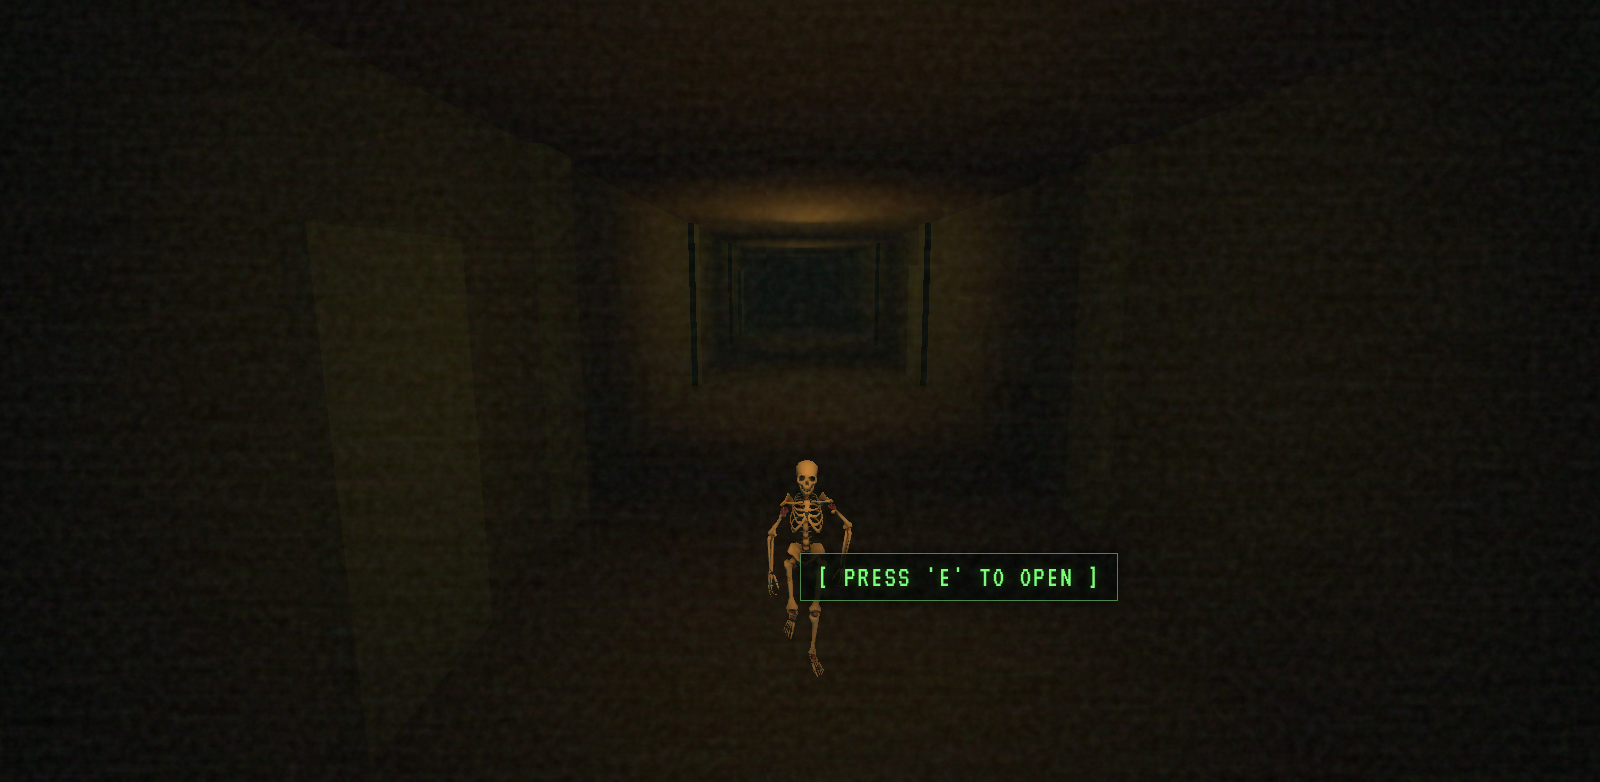
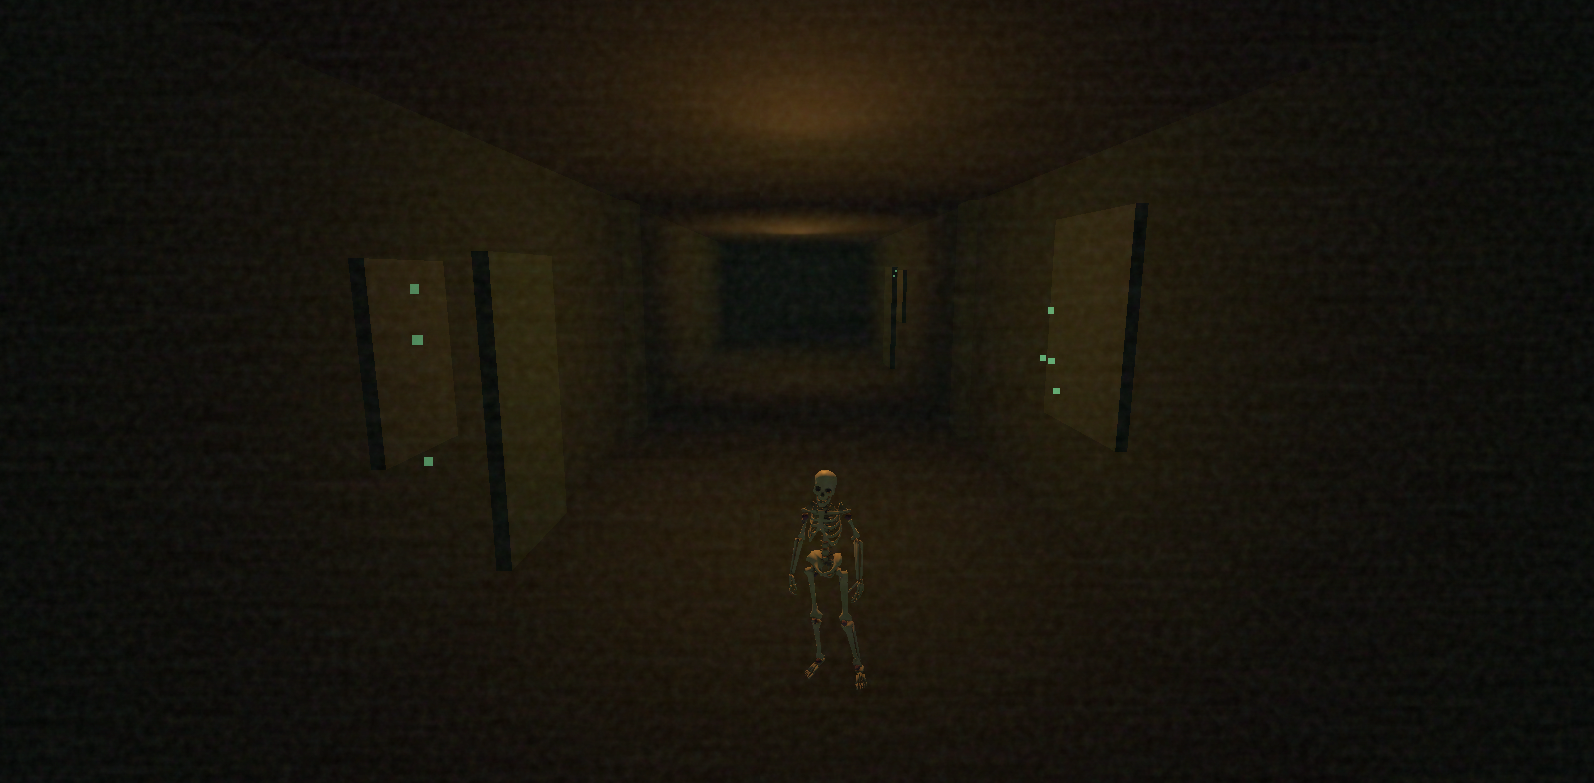
feature: added pictures to the paintings

diff --git a/script.js b/script.js
@@ -88,6 +88,9 @@ let isPaintingHovered = false;
 let currentPaintingRotationY = 0;
 let paintingSparkles = [];
 
+// Textures for Corridor Paintings
+let texSkeletonBase, texSkeletonDiff, texBlueTank;
+
 // Cell 2 Jumpscare State
 let cell2InspectedOnce = false;
 let cell2JumpscareTriggered = false;
@@ -564,28 +567,44 @@ function initArcade3D() {
         corridorDoors.push(door);
     }
 
-    // CREATE CORRIDOR PAINTINGS & SPARKLES
+    // CREATE TEXTURES FOR CORRIDOR PAINTINGS
+    const textureLoader = new THREE.TextureLoader();
+    texSkeletonBase = textureLoader.load('assets/images/wtf_bright_skeleton.png');
+    texSkeletonDiff = textureLoader.load('assets/images/skeleton_headphone.png');
+    texBlueTank = textureLoader.load('assets/images/blueTank.png');
+
+    [texSkeletonBase, texSkeletonDiff, texBlueTank].forEach(tex => {
+        tex.minFilter = THREE.NearestFilter;
+        tex.magFilter = THREE.NearestFilter;
+    });
+
     corridorPaintings = [];
     paintingSparkleParticles = [];
-    const paintingMat = new THREE.MeshStandardMaterial({ color: 0x2a382a, roughness: 0.8, flatShading: true });
 
-    const p1 = new THREE.Mesh(new THREE.BoxGeometry(1.0, 1.4, 0.1), paintingMat);
+    const matP1 = new THREE.MeshStandardMaterial({ map: texSkeletonBase, roughness: 0.8, flatShading: true });
+    const matP2 = new THREE.MeshStandardMaterial({ map: texSkeletonDiff, roughness: 0.8, flatShading: true });
+    const matP3 = new THREE.MeshStandardMaterial({ map: texBlueTank, roughness: 0.8, flatShading: true });
+
+    // Painting 1 (Left wall - Smaller frame)
+    const p1 = new THREE.Mesh(new THREE.BoxGeometry(1.0, 1.4, 0.1), matP1);
     p1.position.set(-2.9, 1.2, -38);
     p1.rotation.y = Math.PI / 2;
     p1.userData = { paintingId: 0, text: "Even if it's just" };
     arcadeScene.add(p1);
     corridorPaintings.push(p1);
 
-    const p2 = new THREE.Mesh(new THREE.BoxGeometry(1.8, 2.2, 0.12), paintingMat);
-    p2.position.set(2.9, 1.3, -40);
+    // Painting 2 (Right wall - Smaller frame with skeleton variation element)
+    const p2 = new THREE.Mesh(new THREE.BoxGeometry(1.0, 1.4, 0.1), matP2);
+    p2.position.set(2.9, 1.2, -40);
     p2.rotation.y = -Math.PI / 2;
     p2.userData = { paintingId: 1, text: "It is still real" };
     arcadeScene.add(p2);
     corridorPaintings.push(p2);
 
-    const p3 = new THREE.Mesh(new THREE.BoxGeometry(1.0, 1.4, 0.1), paintingMat);
-    p3.position.set(2.9, 1.2, -52);
-    p3.rotation.y = -Math.PI / 2;
+    // Painting 3 (Back wall center - Larger frame with Blue Tank image, repositioned closer at z: -48)
+    const p3 = new THREE.Mesh(new THREE.BoxGeometry(2.4, 1.8, 0.12), matP3);
+    p3.position.set(0, 1.4, -48);
+    p3.rotation.y = 0;
     p3.userData = { paintingId: 2, text: "a fever dream now" };
     arcadeScene.add(p3);
     corridorPaintings.push(p3);
@@ -847,8 +866,18 @@ function openPaintingModal(paintingId, paintingText) {
     const ambientLight = new THREE.AmbientLight(0x334433, 1.2);
     paintingScene.add(ambientLight);
 
-    const pGeo = paintingId === 1 ? new THREE.BoxGeometry(2.0, 2.4, 0.1) : new THREE.BoxGeometry(1.2, 1.6, 0.08);
-    const pMat = new THREE.MeshStandardMaterial({ color: 0x1f331f, roughness: 0.5, flatShading: true });
+    // Select correct texture for modal view
+    let modalTexture;
+    if (paintingId === 0) modalTexture = texSkeletonBase;
+    else if (paintingId === 1) modalTexture = texSkeletonDiff;
+    else modalTexture = texBlueTank;
+
+    modalTexture.minFilter = THREE.NearestFilter;
+    modalTexture.magFilter = THREE.NearestFilter;
+
+    const pMat = new THREE.MeshStandardMaterial({ map: modalTexture, roughness: 0.5, flatShading: true });
+    // Correct proportions for big painting vs smaller ones
+    const pGeo = paintingId === 2 ? new THREE.BoxGeometry(2.2, 1.6, 0.08) : new THREE.BoxGeometry(1.2, 1.6, 0.08);
     
     paintingMeshModal = new THREE.Mesh(pGeo, pMat);
     paintingScene.add(paintingMeshModal);
@@ -887,13 +916,19 @@ function openPaintingModal(paintingId, paintingText) {
         ray.setFromCamera(new THREE.Vector2(mx, my), paintingCamera);
         const hits = ray.intersectObject(paintingMeshModal);
 
-        if (hits.length > 0) {
+        // Close modal either by clicking the painting or clicking anywhere inside container as a fallback
+        if (hits.length > 0 || e.target === canvasElem) {
             closePaintingModal();
         }
     }
 
     canvasElem.addEventListener('mousemove', handleMouseMove);
     canvasElem.addEventListener('click', handleClick);
+
+    // Fallback click on container background to ensure it never gets stuck
+    container.onclick = function() {
+        closePaintingModal();
+    };
 
     function animatePainting() {
         if (!isPaintingModalOpen) return;
@@ -937,7 +972,7 @@ function openCellModal(doorIndex) {
             playSFX('assets/sounds/explosion_sound.mp3', 0.9); // Explosion/Glitch sound
 
             container.innerHTML = `<video src="assets/images/skeleton_dancin.mp4" class="jumpscare-gif" autoplay loop muted playsinline></video>`;
-            textElem.innerText = "[ BOOM // DANCE OFF HEHE ]";
+            textElem.innerText = "[ BOOM // DANCE IT OFF HEHE ]";
         }, 1000); // 1 second before jumpscare
 
         return;
